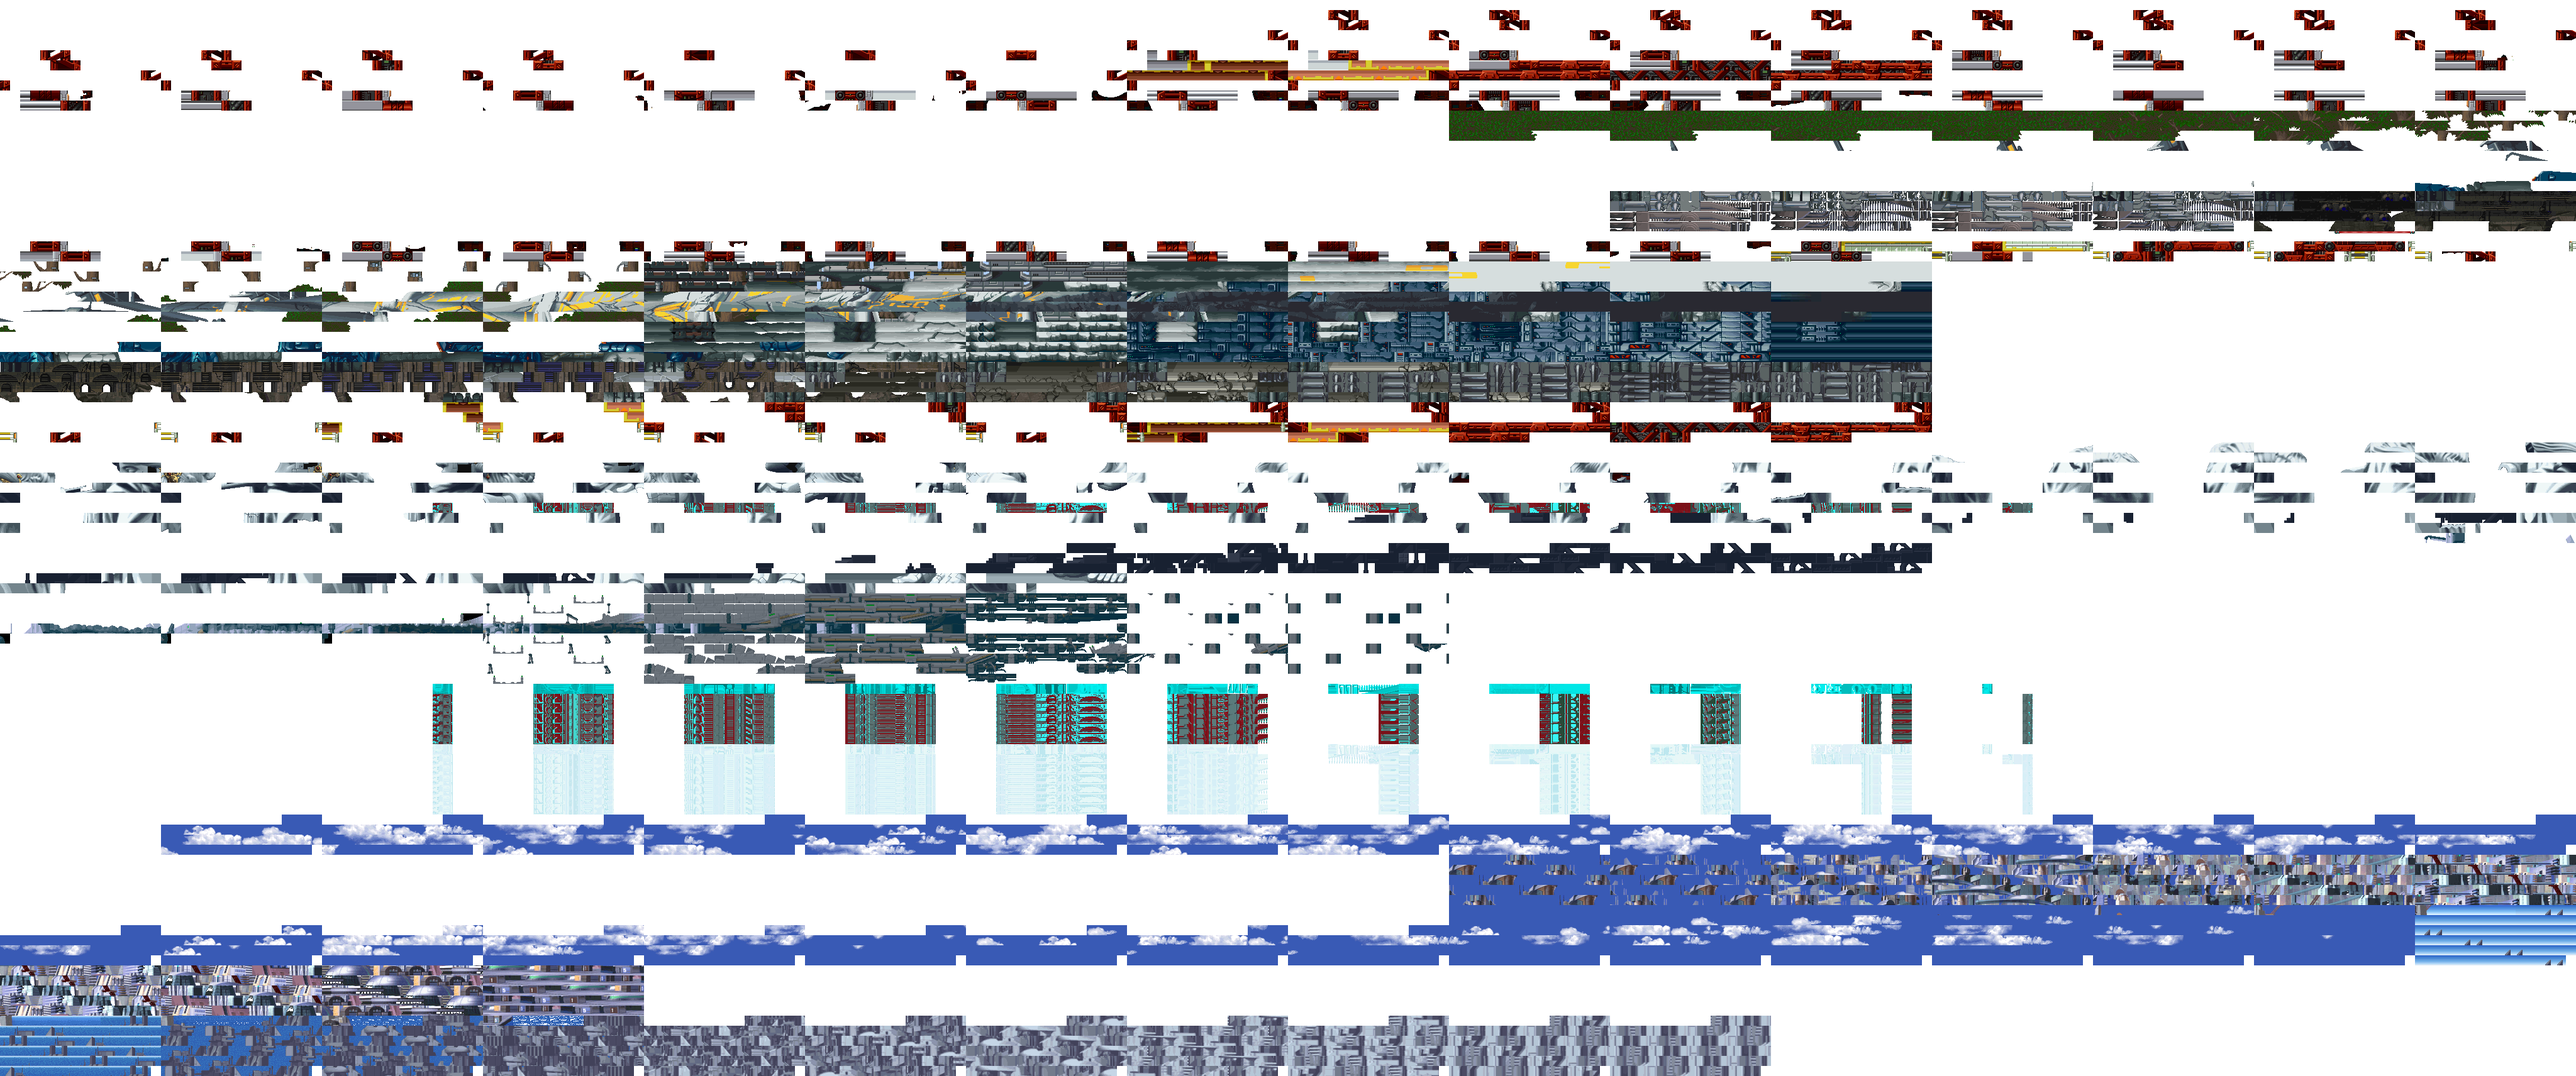
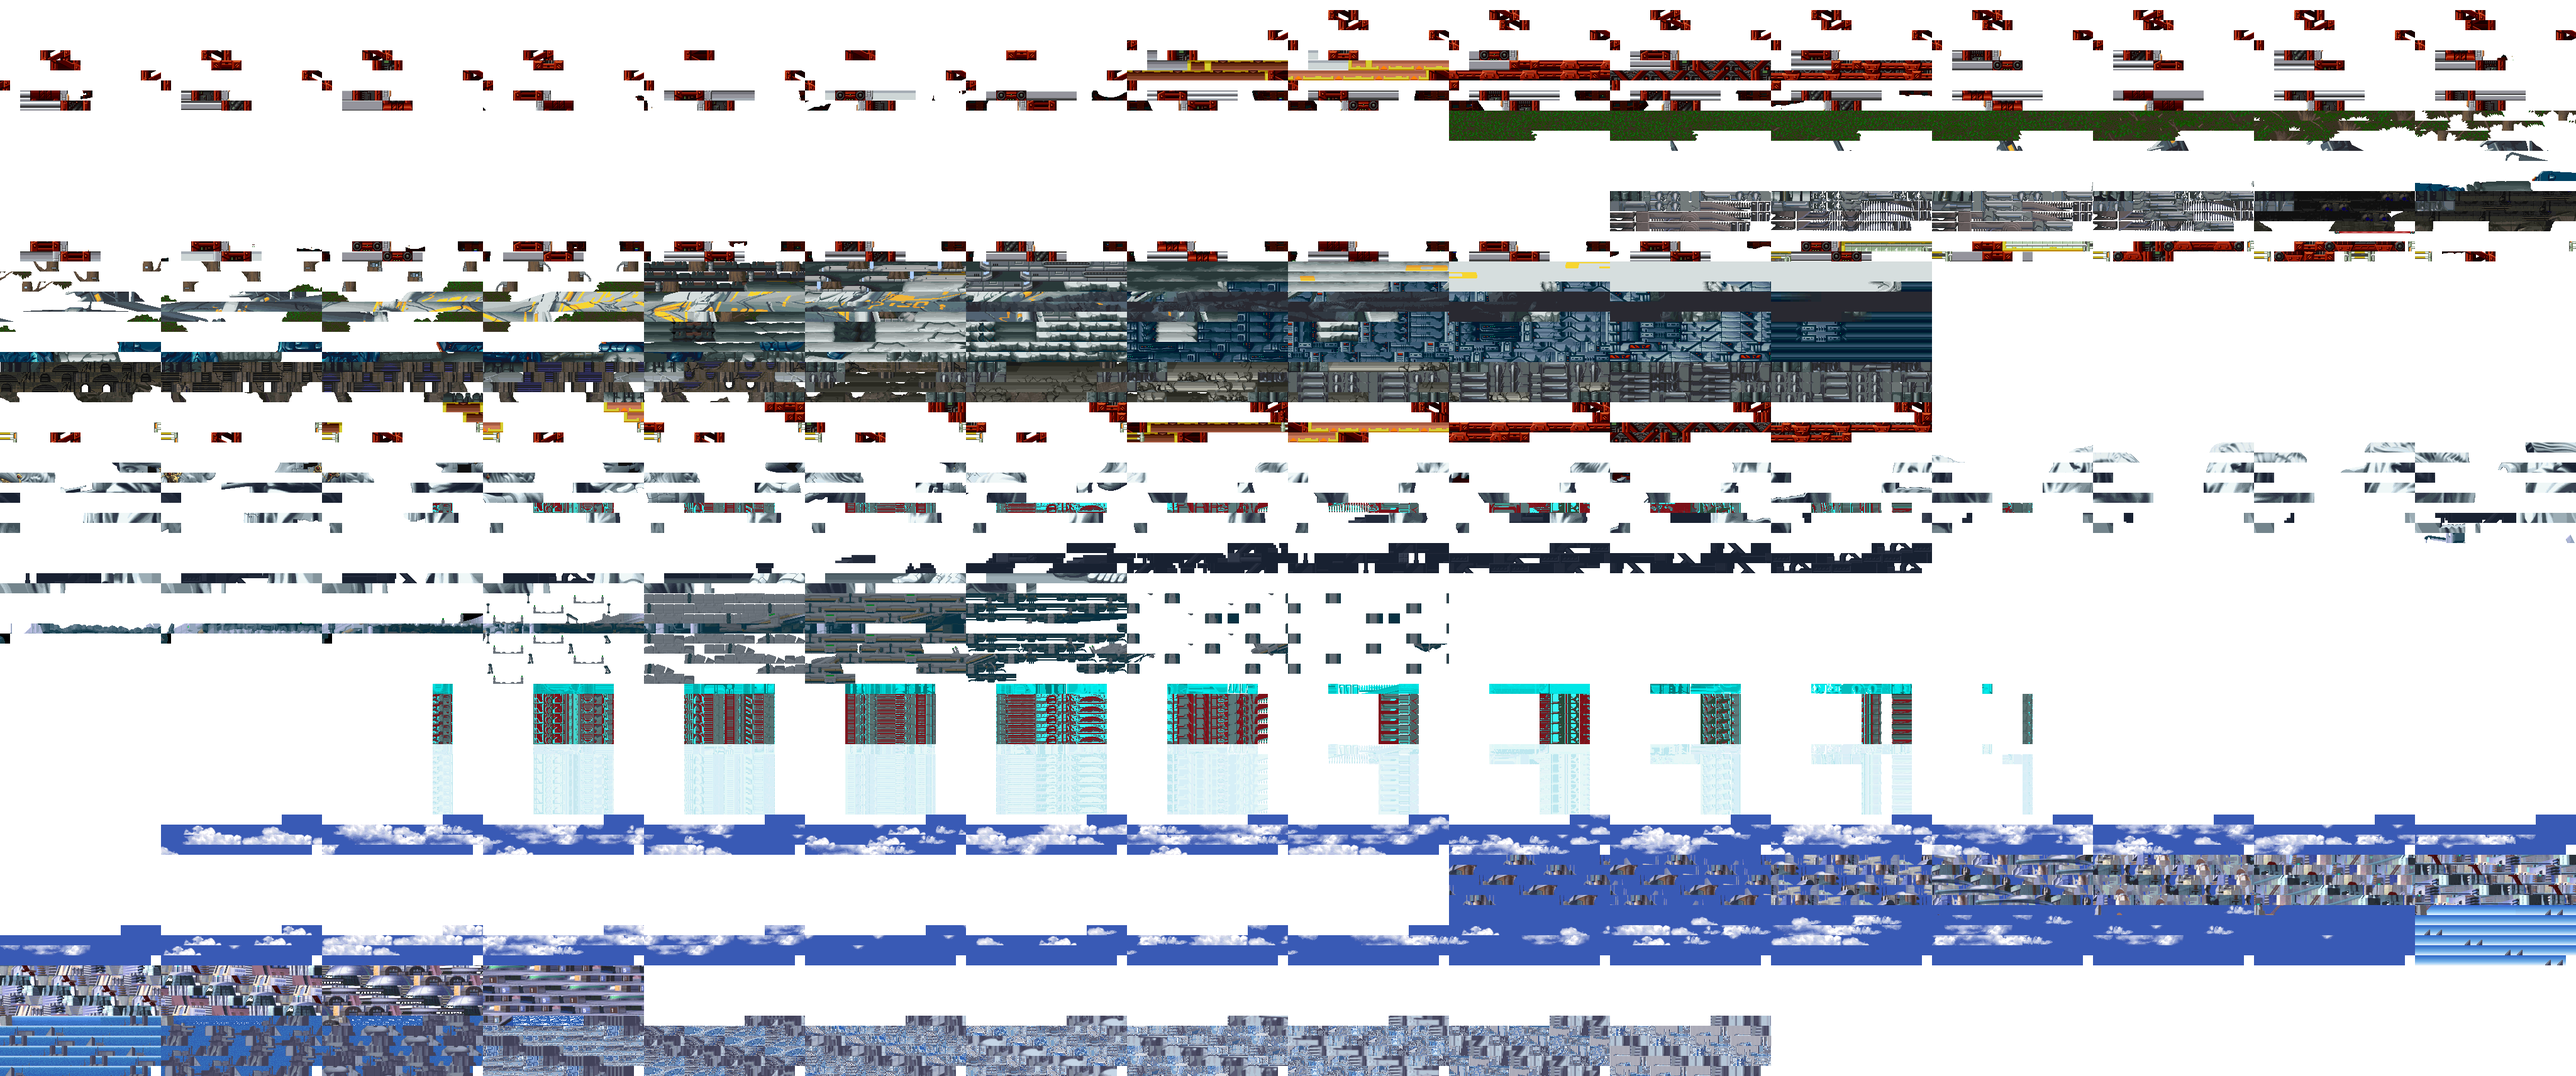
omp.py - fixed regression for stage 120

Changed region(s): [[0.1875, 0.9287, 0.6875, 1.0]]

diff --git a/utils/omp.py b/utils/omp.py
@@ -389,7 +389,12 @@ def load_layout_from_exe(
     return LayoutTable.from_bytes(layout_bytes, width, height, layer)
 
 
-def _build_chr256_ocl_indices(ocl_entries: list[OclEntry]) -> frozenset[int]:
+def _build_chr256_ocl_indices(
+    ocl_entries: list[OclEntry],
+    tex: "TexData",
+    tex_bg: "TexData",
+    tile_size: int = TILE_SIZE,
+) -> frozenset[int]:
     """
     Return a frozenset of OCL indices that should read pixel data from tex_bg
     (the chr256 background tileset) rather than from tex.
@@ -400,21 +405,33 @@ def _build_chr256_ocl_indices(ocl_entries: list[OclEntry]) -> frozenset[int]:
       - Non-first, same col as first:     reads from tex (hit-flash 0x38 variants
                                           share the base tile's pixel data and palette).
       - Non-first, different col:         reads from tex_bg.
-      - Sole entry at its coordinate:     reads from tex_bg (tex is empty there;
-                                          both sheets have identical data in the
-                                          cases where tex is non-empty).
+      - Sole entry at its coordinate,
+        tex empty at that coordinate:     reads from tex_bg (pixel data lives there
+                                          rather than in tex for this entry).
+      - Sole entry, tex has data:         reads from tex as normal.
 
     Algorithm (two passes):
       Pass 0: count occurrences per (page, clut_base) key.
       Pass 1: record the first col seen per key.
       Pass 2: mark chr256 for —
-                sole entries (key_count == 1), and
+                sole entries where tex is all-zero at the coordinate, and
                 non-first entries whose col differs from the first entry's col.
               Same-col non-first entries (including type==0x38 hit-flash) are left
               in tex naturally because the col-equality guard excludes them.
 
     Pages ≥ 8 are handled separately via col==112 in _resolve_tile.
     """
+    raw_tex  = tex["raw_image"];    w_tex = tex["width"]
+    raw_bg   = tex_bg["raw_image"]; w_bg  = tex_bg["width"]
+
+    def _tex_is_empty(raw: bytes, w: int, gx: int, gy: int) -> bool:
+        """Return True if all pixels in the 16×16 tile block are zero."""
+        return not any(
+            raw[(gy + dy) * w + gx + dx]
+            for dy in range(tile_size)
+            for dx in range(tile_size)
+        )
+
     # Pass 0: count occurrences per key so standalone entries can be detected
     key_count: dict[tuple[int, int], int] = {}
     for e in ocl_entries:
@@ -434,7 +451,7 @@ def _build_chr256_ocl_indices(ocl_entries: list[OclEntry]) -> frozenset[int]:
         if key not in first_col:
             first_col[key] = e.col
 
-    # Pass 2: mark chr256 for sole entries and non-first different-col entries
+    # Pass 2: mark chr256 for sole entries with empty tex and non-first different-col entries
     seen: set[tuple[int, int]] = set()
     chr256: set[int] = set()
     for i, e in enumerate(ocl_entries):
@@ -442,9 +459,13 @@ def _build_chr256_ocl_indices(ocl_entries: list[OclEntry]) -> frozenset[int]:
         if page >= 8:
             continue
         key = (page, e.clut_base)
-        # Sole entry: pixel data lives in tex_bg (tex is empty or identical)
         if key_count[key] == 1:
-            chr256.add(i)
+            # Sole entry: route to tex_bg only when tex is empty at this coordinate.
+            cordX = e.clut_base & 0xF; cordY = (e.clut_base >> 4) & 0xF
+            gx = (page % 8) * 256 + cordX * tile_size
+            gy = (page // 8) * 256 + cordY * tile_size
+            if _tex_is_empty(raw_tex, w_tex, gx, gy):
+                chr256.add(i)
             continue
         if key in seen:
             if e.col != first_col[key]:
@@ -561,7 +582,7 @@ def render_omp(
     canvas_w = layer.width * tile_size
     canvas_h = n_rows * tile_size
     canvas = Image.new("RGBA", (canvas_w, canvas_h), (0, 0, 0, 0))
-    chr256_indices = _build_chr256_ocl_indices(ocl_entries)
+    chr256_indices = _build_chr256_ocl_indices(ocl_entries, tex, tex_bg, tile_size)
 
     def _resolve_tile(entry: OclEntry, ocl_idx: int) -> list[int] | None:
         # OCL byte2 (stored as field 'clut_base'): encodes TEX tile coordinates
@@ -680,7 +701,7 @@ def render_level(
     canvas_w = level_width_screens * 16 * tile_size
     canvas_h = level_height_screens * 16 * tile_size
     canvas = Image.new("RGBA", (canvas_w, canvas_h), (0, 0, 0, 0))
-    chr256_indices = _build_chr256_ocl_indices(ocl_entries)
+    chr256_indices = _build_chr256_ocl_indices(ocl_entries, tex, tex_bg, tile_size)
 
     def _resolve_tile(entry: OclEntry, ocl_idx: int) -> list[int] | None:
         cordX = entry.clut_base & 0xF
